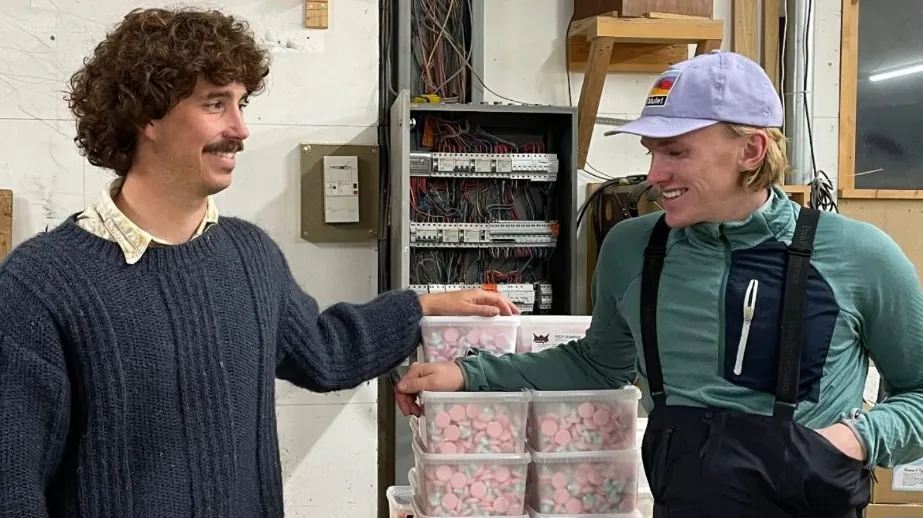
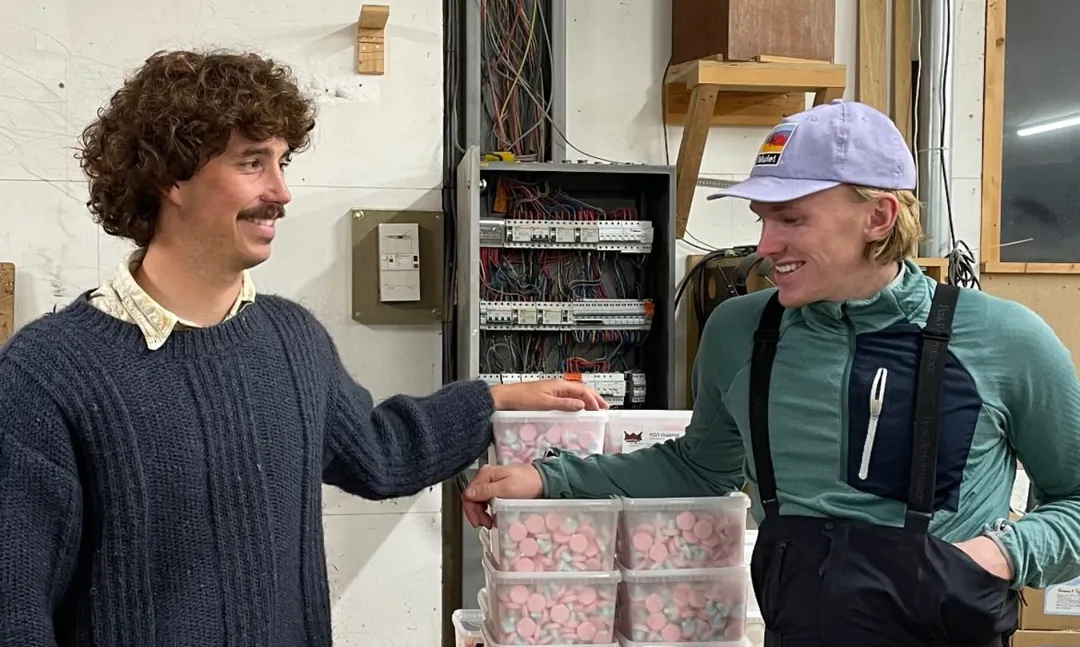
About: each part of the story with its picture (the two of us with whole heads, a row of pick & mix bins, the packed van with its sticker painted out of the sky), the last paragraph now says we brought it here and drive it to the shops; Find Sweets: our shelf in a shop under the list (people cropped
Claude-Session: https://claude.ai/code/session_01AY1yob8gUX3Jrq1YvqxfsD

diff --git a/templates/storefront/about.html b/templates/storefront/about.html
@@ -5,9 +5,10 @@
 
 {% block content %}
 {% comment %}
-  Who we are: a short story in the founders' voice, and under it a
-  picture from the mountains (static/images, its Instagram tag painted
-  out of the sky).
+  Who we are: a short story in the founders' voice, each part with its
+  picture, and at the end the mountain photo with the last line in its
+  sky (static/images; the pictures come from their Instagram, cropped
+  or painted clear of its stickers).
 {% endcomment %}
 <section class="page-section" aria-labelledby="about-title">
   <article class="page page--centered about">
@@ -17,18 +18,41 @@
     <div class="about__text">
       <p>{% trans "We're Marco Sandelgård and Milo Sandelgård Bascoulergue, two cousins who grew up in Chamonix with one foot in France and one in Sweden." %}</p>
 
-      {# The two of them, right after they are named; edges fading as below. #}
+      {# Each part of the story with its picture under it, edges fading #}
+      {# into the page like the mountain photo at the end. #}
       <img
-        class="about__founders"
+        class="about__picture"
         src="{% static 'images/about-founders.webp' %}"
         alt="{% trans 'The two of us in our stockroom, among stacked boxes of sweets.' %}"
-        width="923"
-        height="518"
+        width="1080"
+        height="647"
         loading="lazy"
         decoding="async"
       >
+
       <p>{% trans "In Sweden, sweets mean lösgodis: a wall of loose candy, a paper bag, and the serious business of choosing exactly what goes in it. Sour strips, salty liquorice, fruity jellies, chocolate. Everyone has their own mix." %}</p>
-      <p>{% trans "We missed it in France. So we started SwedeSweets to bring the real thing here: the Swedish pick & mix we grew up with, straight from Sweden." %}</p>
+
+      <img
+        class="about__picture"
+        src="{% static 'images/about-candy-wall.webp' %}"
+        alt="{% trans 'A row of our pick & mix bins: fruity jellies, sour sweets, red raspberries and striped peppermints.' %}"
+        width="1080"
+        height="358"
+        loading="lazy"
+        decoding="async"
+      >
+
+      <p>{% trans "We missed it in France, so we brought it here ourselves: the Swedish pick & mix we grew up with, straight from Sweden, and we drive it to the shops of the valley." %}</p>
+
+      <img
+        class="about__picture"
+        src="{% static 'images/about-delivery-van.webp' %}"
+        alt="{% trans 'Our van at dawn in the valley, packed with boxes of sweets and skis.' %}"
+        width="1080"
+        height="1598"
+        loading="lazy"
+        decoding="async"
+      >
     </div>
 
     {# The last line written in the sky of the photo, like a cloud, the #}

diff --git a/static/css/page.css b/static/css/page.css
@@ -106,6 +106,32 @@
   color: var(--color-neutral-800);
 }
 
+/* Find Sweets: our shelf in a shop under the list, smaller than the page,
+   its edges fading into it; a line under it says what to look for. */
+.find-sweets__shelf {
+  width: min(100%, 22rem);
+  margin: clamp(var(--space-8), 6dvh, var(--space-12)) auto 0;
+}
+
+.find-sweets__shelf img {
+  display: block;
+  width: 100%;
+  height: auto;
+
+  -webkit-mask-image:
+    linear-gradient(to right, transparent, #000 12%, #000 88%, transparent),
+    linear-gradient(to bottom, transparent, #000 8%, #000 86%, transparent);
+  -webkit-mask-composite: source-in;
+  mask-image:
+    linear-gradient(to right, transparent, #000 12%, #000 88%, transparent),
+    linear-gradient(to bottom, transparent, #000 8%, #000 86%, transparent);
+  mask-composite: intersect;
+}
+
+.find-sweets__shelf figcaption {
+  margin-top: var(--space-2);
+}
+
 /* Small grey centred line: a count, a status, a description. */
 .page__note {
   margin: 0;
@@ -827,9 +853,9 @@ span.icon-rows__link .icon-rows__icon {
   margin: 0;
 }
 
-/* The two of us, between the first lines of the story: the same soft
-   edges as the mountain photo, a little narrower fades. */
-.about__founders {
+/* A picture under each part of the story: the same soft edges as the
+   mountain photo at the end, so they float in the page. */
+.about__picture {
   display: block;
   width: 100%;
   height: auto;
@@ -837,11 +863,11 @@ span.icon-rows__link .icon-rows__icon {
 
   -webkit-mask-image:
     linear-gradient(to right, transparent, #000 10%, #000 90%, transparent),
-    linear-gradient(to bottom, transparent, #000 12%, #000 88%, transparent);
+    linear-gradient(to bottom, transparent, #000 8%, #000 90%, transparent);
   -webkit-mask-composite: source-in;
   mask-image:
     linear-gradient(to right, transparent, #000 10%, #000 90%, transparent),
-    linear-gradient(to bottom, transparent, #000 12%, #000 88%, transparent);
+    linear-gradient(to bottom, transparent, #000 8%, #000 90%, transparent);
   mask-composite: intersect;
 }
 

diff --git a/templates/storefront/find_sweets.html b/templates/storefront/find_sweets.html
@@ -1,13 +1,14 @@
 {% extends "storefront/base.html" %}
-{% load i18n %}
+{% load i18n static %}
 
 {% block title %}{% trans "Find Sweets" %} | SwedeSweets{% endblock %}
 
 {% block content %}
 {% comment %}
   The shops that sell SwedeSweets and chose to be listed (StoreListing
-  is_listed), by town; each opens its address on the map. The navbar
-  says where you are; the h1 is there for screen readers.
+  is_listed), by town; each opens its address on the map. Under them,
+  our shelf in a shop: what to look for. The navbar says where you are;
+  the h1 is there for screen readers.
 {% endcomment %}
 <section class="page-section" aria-labelledby="find-sweets-title">
   <div class="page page--centered page--wide">
@@ -22,6 +23,19 @@
     {% else %}
       <p class="page__text page__message">{% trans "No shops are listed yet." %}</p>
     {% endif %}
+
+    {# What to look for once there: our shelf in a shop (people cropped out). #}
+    <figure class="find-sweets__shelf">
+      <img
+        src="{% static 'images/find-sweets-shelf.webp' %}"
+        alt="{% trans 'Our pick & mix shelf in a shop, under its yellow SwedeSweets sign.' %}"
+        width="868"
+        height="980"
+        loading="lazy"
+        decoding="async"
+      >
+      <figcaption class="page__note">{% trans "Look for the yellow SwedeSweets sign." %}</figcaption>
+    </figure>
   </div>
 </section>
 {% endblock %}
